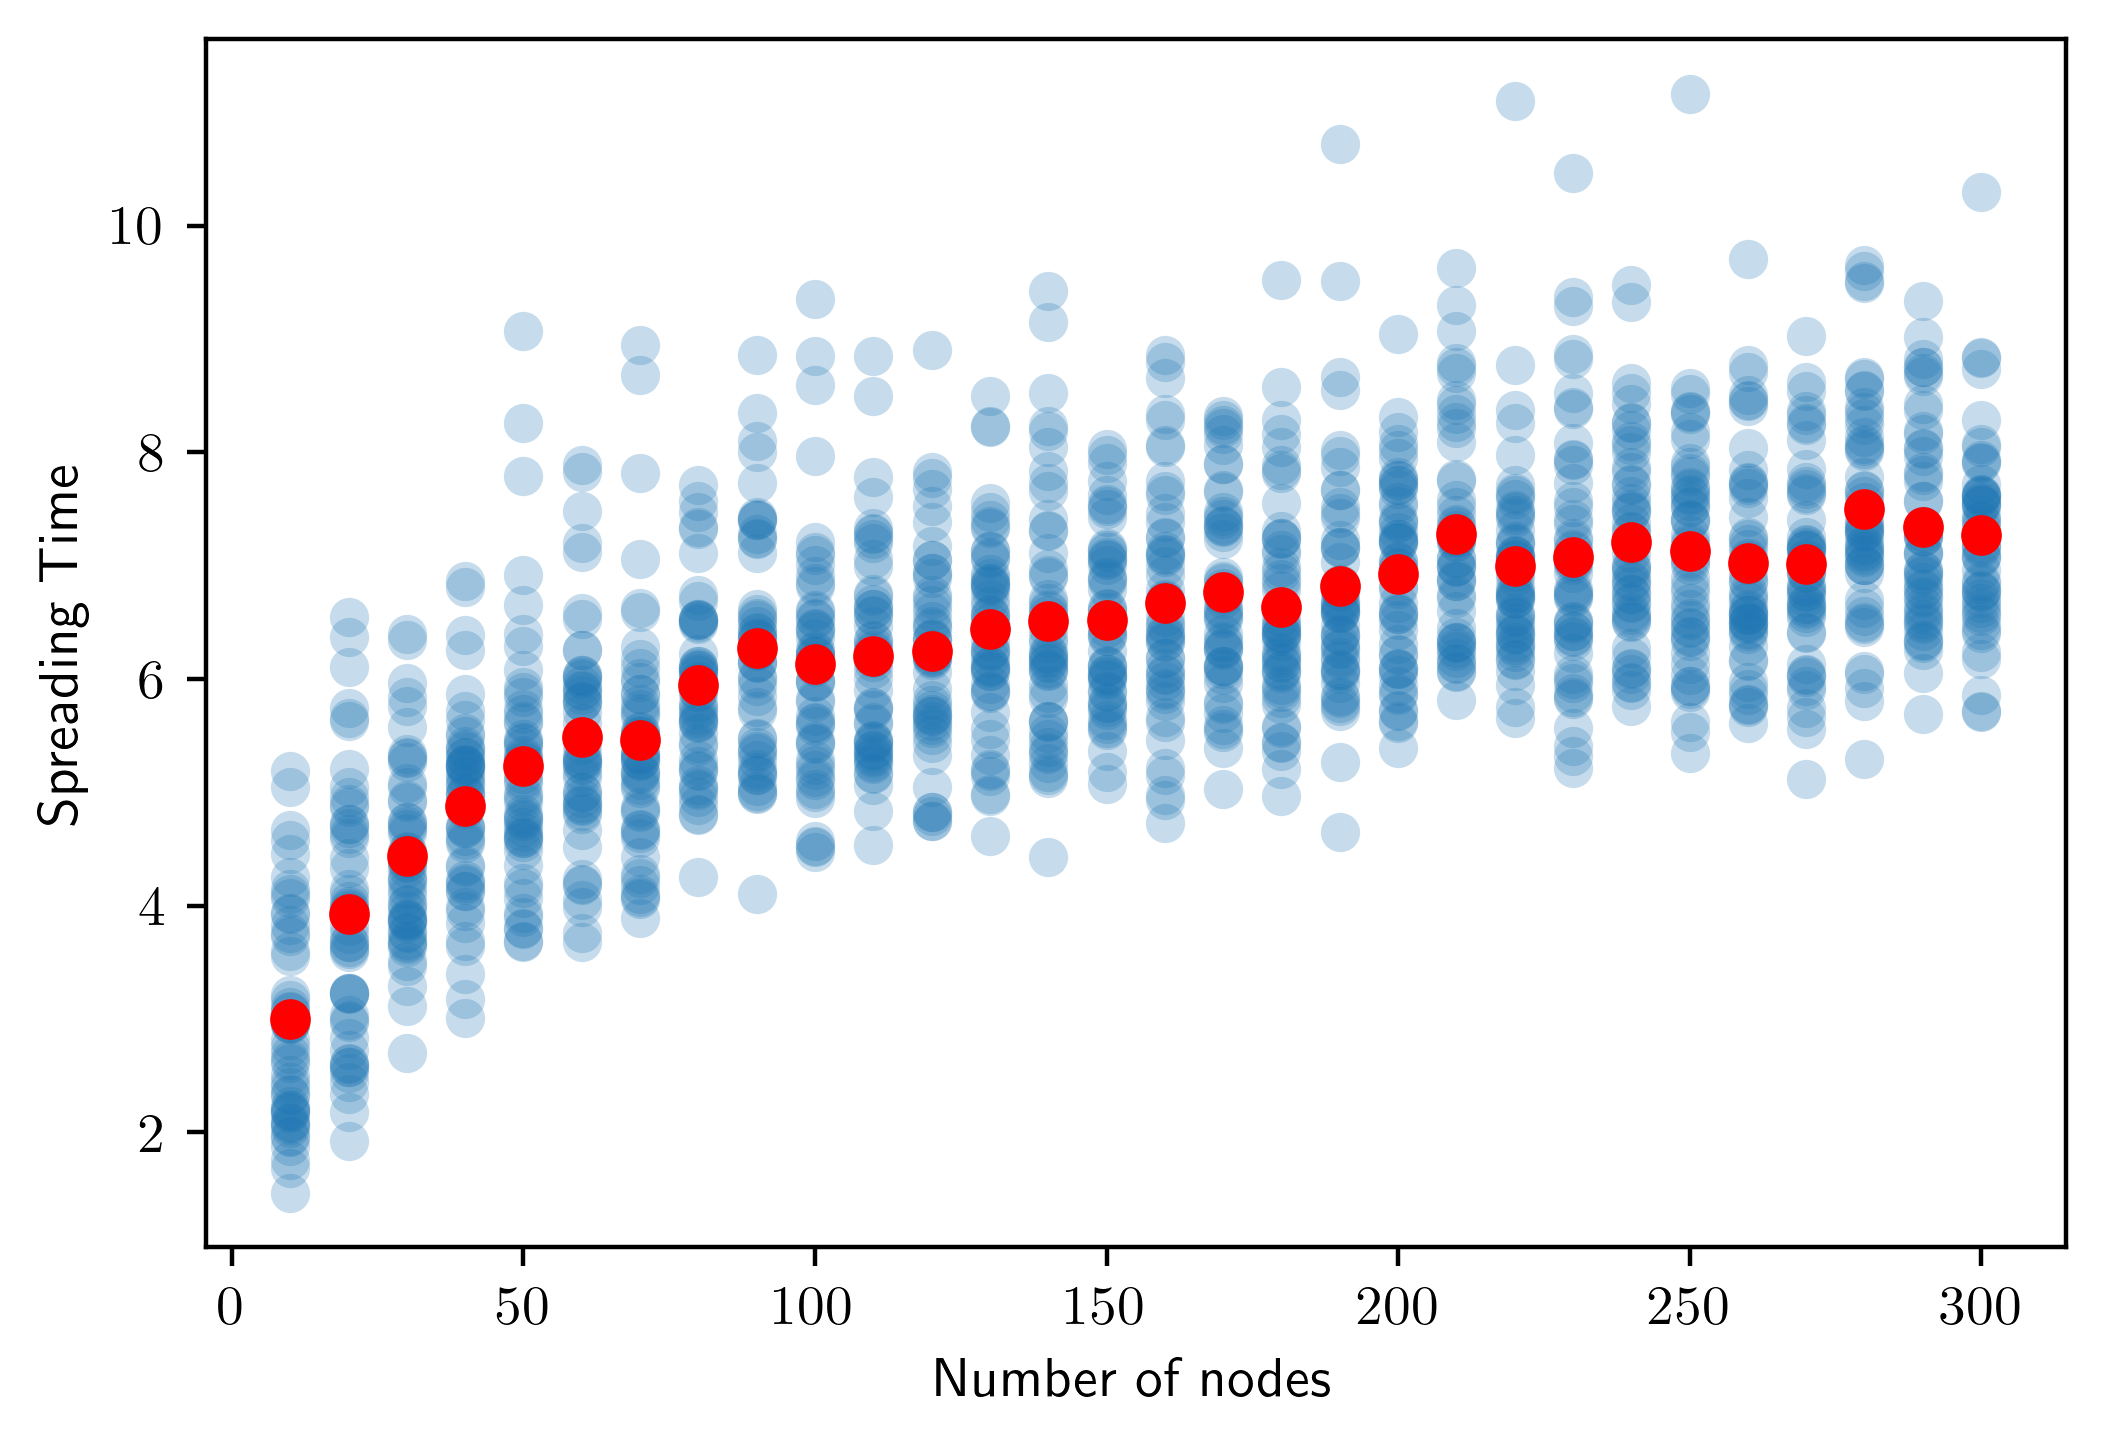
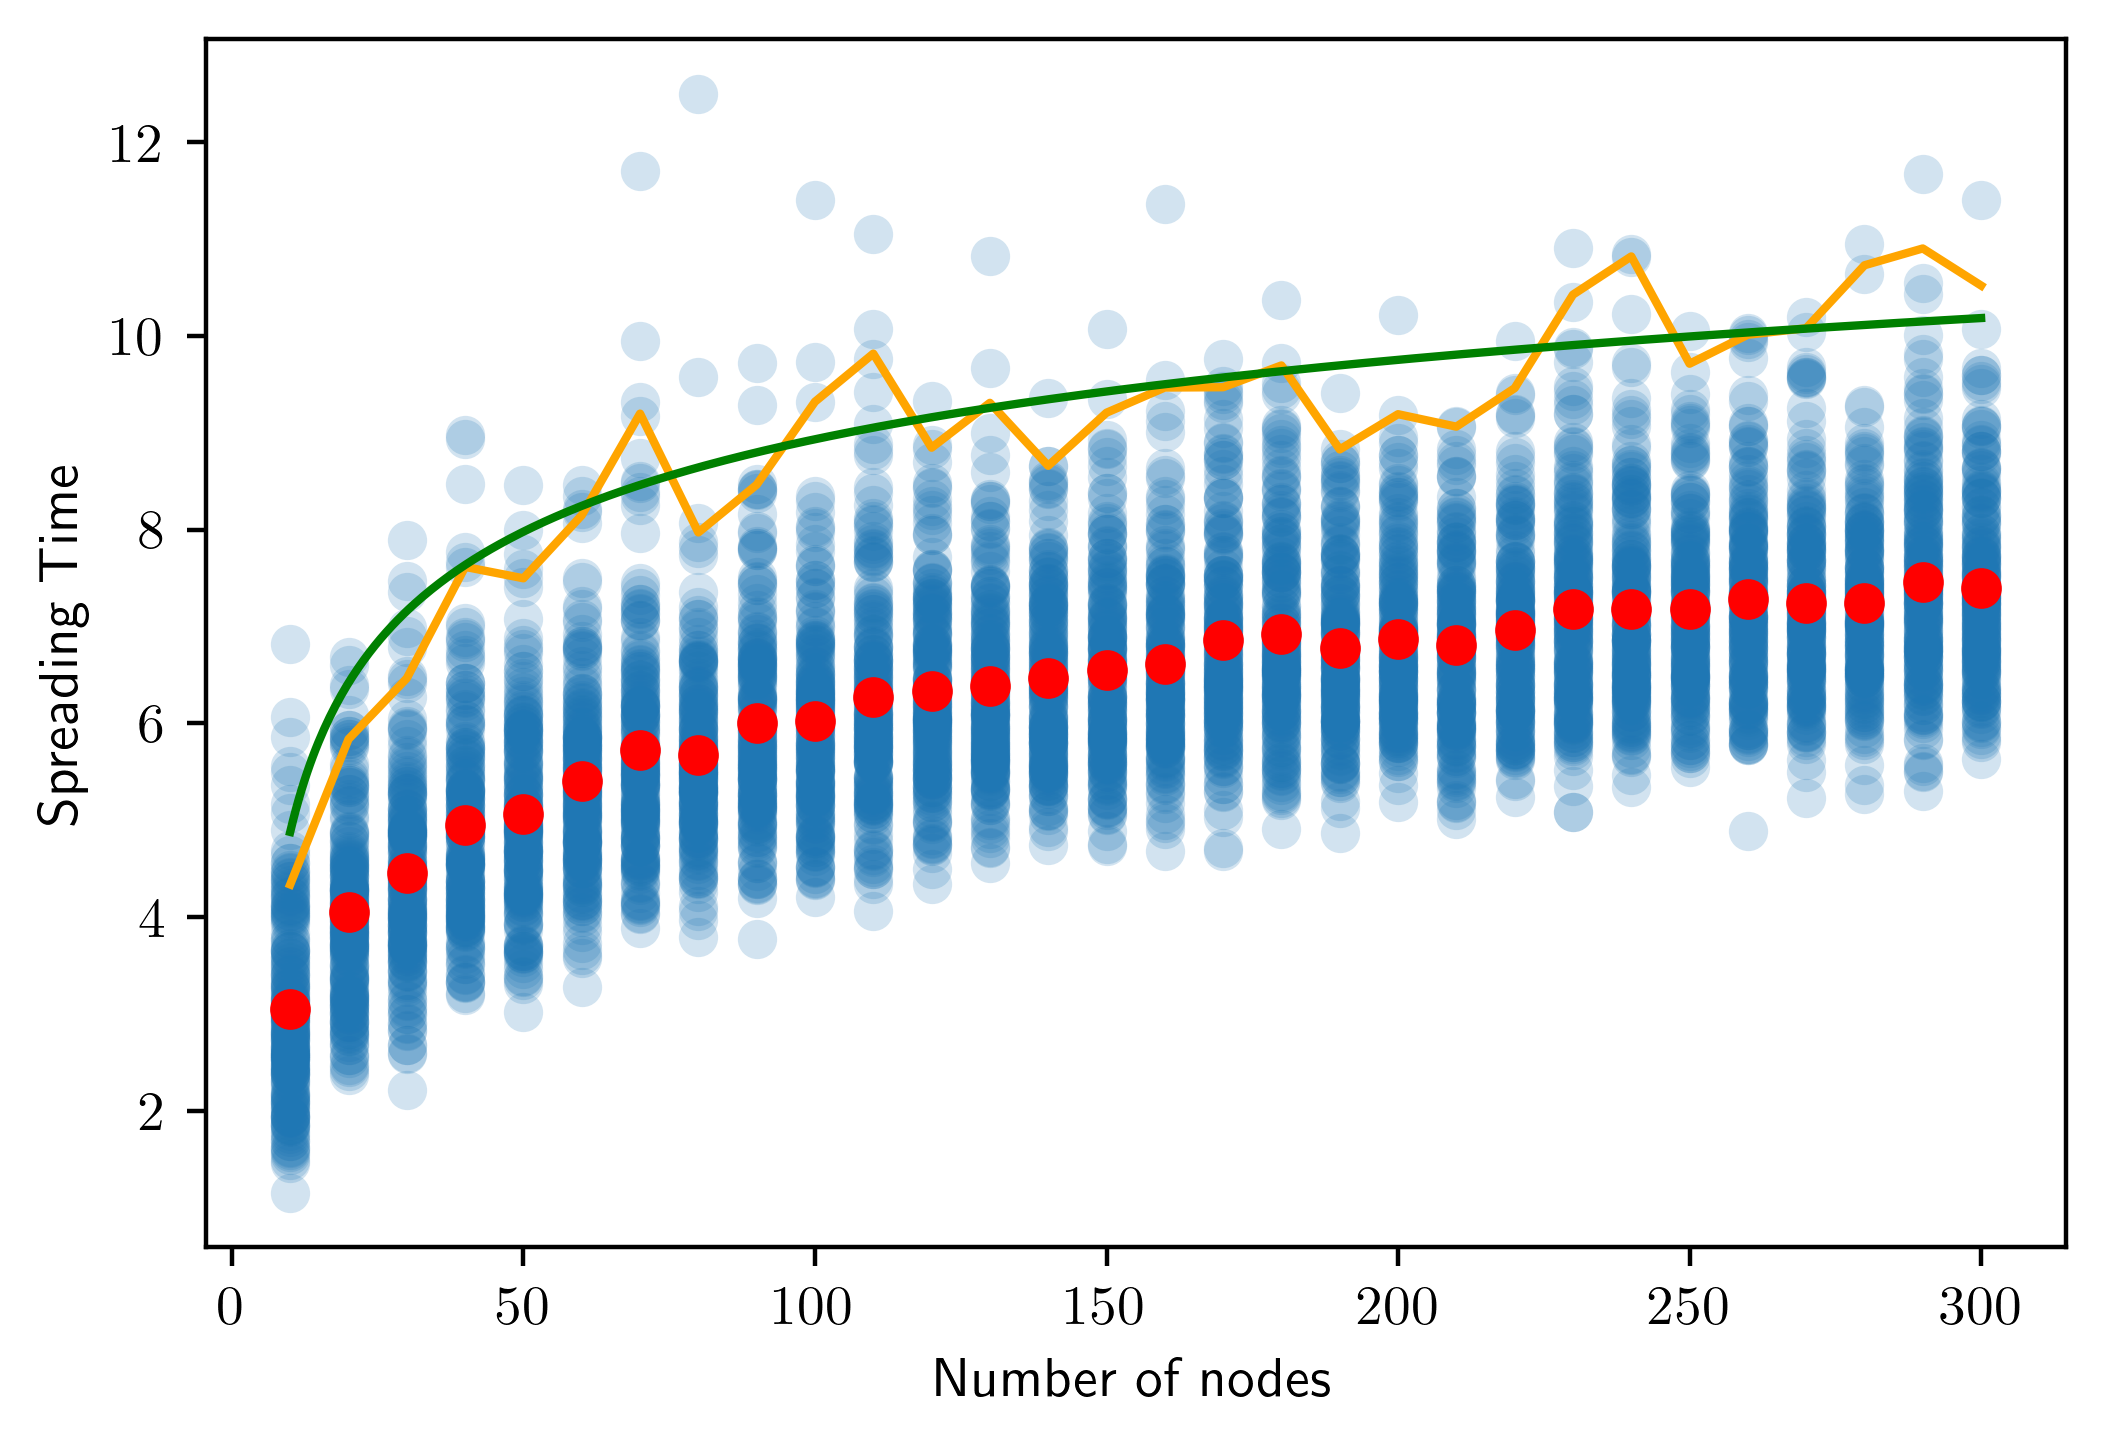
Added w.h.p line to simulations

diff --git a/dissertation/chapters/AsyncBoundProof.tex b/dissertation/chapters/AsyncBoundProof.tex
@@ -477,12 +477,27 @@ Now we compare the bound with simulated spreading times on the $\mathcal{A}$.
 	\label{fig:alternatingSimResults}
 \end{figure}
 
-The scatter plot in Figure \ref{fig:alternatingSimResults} displays the results rumour spreading on $\mathcal{A}$. Each blue point in the plot represents a single simulation, where the $x$ component is the number of nodes in the simulation, and the $y$ component is spreading time. Since the spreading time is random variable, 50 simulations were run for each network size we investigated. The mean of these 50 simulations are plotted in red. % TODO: 50 runs to eliminate varaince of indiviudal runs, bound w.h.p
+The scatter plot in Figure \ref{fig:alternatingSimResults} displays the results simulated rumour spreading on $\mathcal{A}$. Each blue point in the plot represents a single simulation, where the $x$ component is the number of nodes in the simulation, and the $y$ component is spreading time. Since the spreading time is random variable, 200 simulations were run for each network size we investigated. The means (displayed by red points) illustrate the relationship between the size of the network and the expected spreading time. 
+
+However, since the bound in Theorem \ref{theorem:AsyncUpperBound} holds w.h.p, we need a different metric that for which the majority of the spreading times are bounded by ... % TODO: Sort out what this means
+
+To determine whether our bound is sufficient and tight, we investigate the growth rate of the orange line.
+
+Since the asymptotic bound holds w.h.p, for a network with $n$ nodes, we expect that at most 1 in $n$ simulated spreading times exceed the bound.
+
+For the network size of $n$ nodes, the corresponding value of the orange line represents the $100(1-\frac{1}{n})^\text{th}$ percentile of the simulation results, i.e. that 
+
+We observe that the spreading times grow at like $f(n) = c \log \log (n)$ with an appropriately chosen scaling constant $c$ (plotted in green), so the $\mathcal{O}(\log n)$ bound holds. 
+
+However, this analysis suggests that $\mathcal{O}(\log n)$ bound is not tight for $\mathcal{A}$.
+
 
 % TODO: Difference between means and bound -> means fit bound => likely bound works/is tight, expect all points beneath bound don't expect means to follow bound exactly
 % TODO: Analysis - what does this sim actually tell us
 
-We now consider an example of a dynamic network where the bound is not tight in scaling. % TODO: Reword
+We now consider another example of a dynamic network.
+
+% TODO: FIGINTERP
 
 \subsection{Shuffled Ring}\label{section:shuffledRingAsyncApplication}
 
@@ -548,6 +563,9 @@ Now we compare the bound we have obtained with simulated spreading times on the 
 	\caption{Results of shuffled ring spreading time simulations}
 	\label{fig:shuffleRingSimResults}
 \end{figure}
+
+% TODO: FIGINTERP, green line is log(x)
+% REGRESSION
 
 We see from Figure \ref{fig:shuffledRingExample} that the spreading times of the Shuffled Ring Network grow logarithmically in the size of the network. % TODO: Justify rigourouly, generate "closeness" metric to true log n?
 Thus, the $\mathcal{O}(n \log n)$ bound given by Theorem $\ref{theorem:AsyncUpperBound}$ is larger by a factor of $n$ in scaling. 
